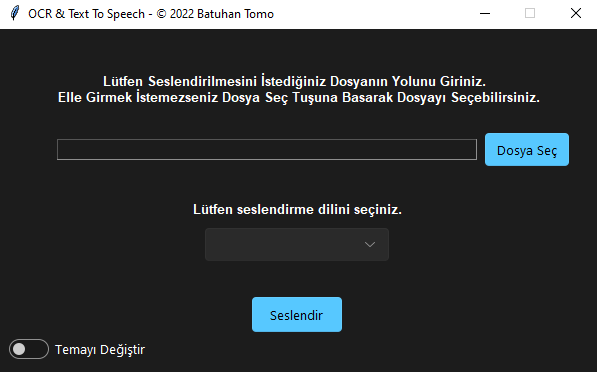
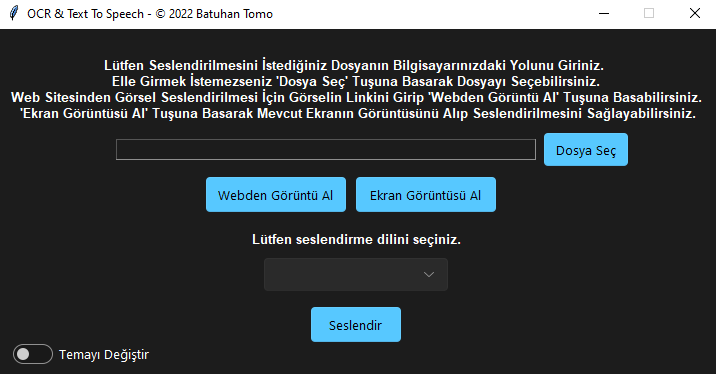
Update

diff --git a/OCR.py b/OCR.py
@@ -19,7 +19,7 @@ pytesseract.pytesseract.tesseract_cmd = 'C:\\Program Files\\Tesseract-OCR\\Tesse
 options = {"English":"en","Turkish":"tr","German":"de","French":"fr","Italian":"it","Spanish ":"es","Russian":"ru","Portuguese(Brazil)":"br","Danish":"da","Dutch":"nl","Polish":"pl","Ukrainian":"uk","Afrikaans":"af","Arabic":"ar","Bengali":"bn","Bulgarian":"bg","Catalan":"ca","Chinese":"yue","Czech":"cs","Filipino":"fil","Finnish":"fi","Greek":"el","Gujarati":"gu","Hindi":"hi","Hungarian":"hu","Icelandic":"is","Indonesian":"id","Japanese":"ja","Kannada":"kn","Korean":"ko","Latvian":"lv","Malay":"ms","Malayalam":"ml","Mandarin Chinese":"cmn","Norwegian":"nb","Portuguese(Portugal)":"pt","Punjabi":"pa","Romanian":"ro","Serbian":"sr","Slovak":"sk","Swedish":"sv","Tamil":"ta","Telugu":"te","Thai":"th","Vietnamese":"vi"} 
 
 root= tk.Tk()
-root.geometry("600x350")
+root.geometry("720x350")
 root.title("OCR & Text To Speech - © 2022 Batuhan Tomo")
 root.resizable(False, False)
 sv_ttk.set_theme("dark")
@@ -58,14 +58,14 @@ combo.current()
 combo.bind("<<ComboboxSelected>>", lambda event:[show(),entry2.delete(0,"end"),(entry2.insert(0,options[material.get()]))])
 canvas.create_window(250, 245, window=combo)
 
-label = tk.Label(text="Lütfen Seslendirilmesini İstediğiniz Dosyanın Yolunu Giriniz. \n Elle Girmek İstemezseniz Dosya Seç Tuşuna Basarak Dosyayı Seçebilirsiniz.",font='Helvetica 10 bold')
+label = tk.Label(text="Lütfen Seslendirilmesini İstediğiniz Dosyanın Bilgisayarınızdaki Yolunu Giriniz. \n Elle Girmek İstemezseniz 'Dosya Seç' Tuşuna Basarak Dosyayı Seçebilirsiniz. \n Web Sitesinden Görsel Seslendirilmesi İçin Görselin Linkini Girip 'Webden Görüntü Al' Tuşuna Basabilirsiniz. \n 'Ekran Görüntüsü Al' Tuşuna Basarak Mevcut Ekranın Görüntüsünü Alıp Seslendirilmesini Sağlayabilirsiniz.",font='Helvetica 10 bold')
 canvas.create_window(250, 60, window=label)
 
 label2 = tk.Label(text="Lütfen seslendirme dilini seçiniz.", font='Helvetica 10 bold')
 canvas.create_window(250, 210, window=label2)
 
 switch1 = ttk.Checkbutton(root, text="Temayı Değiştir", style="Switch.TCheckbutton", command = switch)
-canvas.create_window(30,320,window=switch1)
+canvas.create_window(-25,325,window=switch1)
 
 def setTextInput(text):
     entry1.delete(0,"end")
@@ -157,9 +157,9 @@ button1 = ttk.Button(text='Seslendir', style='Accent.TButton',command=lambda:[Pr
 canvas.create_window(250, 295, height= 35 ,width=90 , window=button1)
 
 button2 = ttk.Button(text='Ekran Görüntüsü Al', style='Accent.TButton',command=lambda:[screenshot()])
-canvas.create_window(300, 165, height= 35 ,width=140 , window=button2)
+canvas.create_window(320, 165, height= 35 ,width=140 , window=button2)
 
 button3 = ttk.Button(text='Webden Görüntü Al', style='Accent.TButton',command=lambda:[web()])
-canvas.create_window(150, 165, height= 35 ,width=140 , window=button3)
+canvas.create_window(170, 165, height= 35 ,width=140 , window=button3)
 
 root.mainloop()
